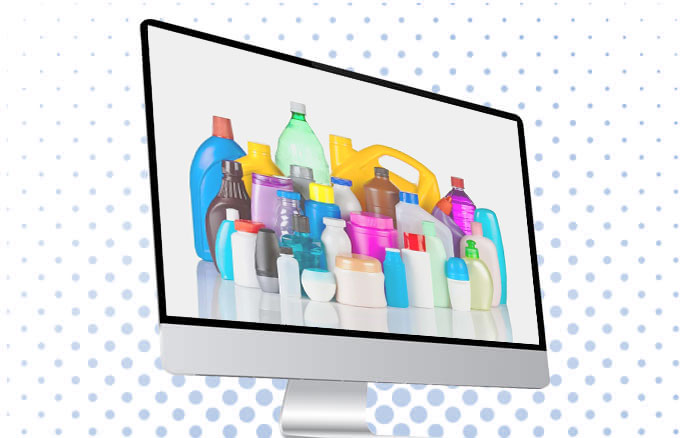
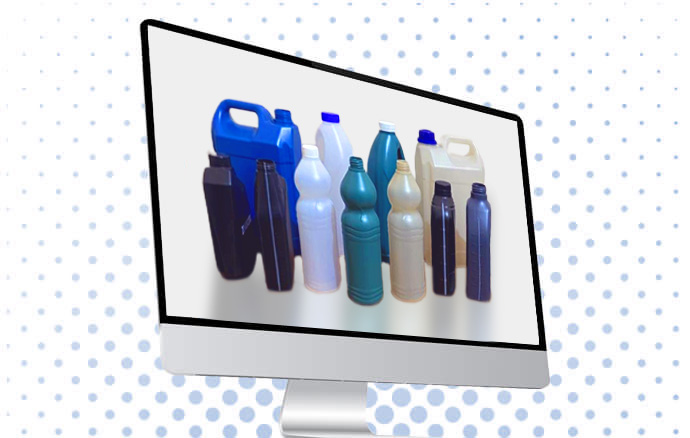
adicionando novas imagens

Changed region(s): [[0.2739, 0.2078, 0.7609, 0.8014]]

diff --git a/index.html b/index.html
@@ -14,7 +14,9 @@
   <link href="assets/img/apple-touch-icon.png" rel="apple-touch-icon">
 
   <!-- Google Fonts -->
-  <link href="https://fonts.googleapis.com/css?family=Open+Sans:300,300i,400,400i,700,700i|Raleway:300,400,500,700,800|Montserrat:300,400,700" rel="stylesheet">
+  <link
+    href="https://fonts.googleapis.com/css?family=Open+Sans:300,300i,400,400i,700,700i|Raleway:300,400,500,700,800|Montserrat:300,400,700"
+    rel="stylesheet">
 
   <!-- Vendor CSS Files -->
   <link href="assets/vendor/aos/aos.css" rel="stylesheet">
@@ -41,8 +43,9 @@
   <!-- ======= Top Bar ======= -->
   <section id="topbar" class="d-flex align-items-center">
     <div class="container d-flex justify-content-center justify-content-md-between">
-      <div class="contact-info d-flex align-items-center">
-        <i class="bi bi-envelope d-flex align-items-center"><a href="mailto:wjc_embalagensplasticas@hotmail.com">wjc_embalagensplasticas@hotmail.com</a></i>
+      <div class="contact-info d-flex align-items-center mobile-font">
+        <i class="bi bi-envelope d-flex align-items-center"><a
+            href="mailto:wjc_embalagensplasticas@hotmail.com">wjc_embalagensplasticas@hotmail.com</a></i>
         <i class="bi bi-phone d-flex align-items-center ms-4"><span>(19) 3407-7594</span></i>
       </div>
       <div class="social-links d-none d-md-flex align-items-center">
@@ -60,7 +63,7 @@
       <div id="logo">
         <!--<h1><a href="index.html">WJC</a></h1>-->
         <!-- Uncomment below if you prefer to use an image logo -->
-       <a href="index.html"><img src="assets/img/logo.png" alt=""></a>
+        <a href="index.html"><img src="assets/img/logo.png" alt=""></a>
       </div>
 
       <nav id="navbar" class="navbar">
@@ -102,20 +105,21 @@
 
   <main id="main">
 
-        <!-- ======= Call To Action Section ======= -->
-        <section id="call-to-action">
-          <div class="container" data-aos="zoom-out">
-            <div class="row">
-              <div class="col-lg-9 text-center text-lg-start">
-                <h3 class="cta-title">Seu produto merece mais!</h3>
-                <p class="cta-text"> Uma boa embalagem é determinante para o sucesso do seu produto, pensando nisso, desenvolvemos embalagens plásticas com várias opções de cores, tamanhos e formatos. Confira já!</p>
-              </div>
-              <div class="col-lg-3 cta-btn-container text-center">
-                <a class="cta-btn align-middle" href="#">Produtos</a>
-              </div>
-            </div>
+    <!-- ======= Call To Action Section ======= -->
+    <section id="call-to-action">
+      <div class="container" data-aos="zoom-out">
+        <div class="row">
+          <div class="col-lg-9 text-center text-lg-start">
+            <h3 class="cta-title">Seu produto merece mais!</h3>
+            <p class="cta-text"> Uma boa embalagem é determinante para o sucesso do seu produto, pensando nisso,
+              desenvolvemos embalagens plásticas com várias opções de cores, tamanhos e formatos. Confira já!</p>
           </div>
-        </section><!-- End Call To Action Section -->
+          <div class="col-lg-3 cta-btn-container text-center">
+            <a class="cta-btn align-middle" href="#">Produtos</a>
+          </div>
+        </div>
+      </div>
+    </section><!-- End Call To Action Section -->
     <!-- ======= About Section ======= -->
     <section id="about">
       <div class="container" data-aos="fade-up">
@@ -126,7 +130,9 @@
 
           <div class="col-lg-6 content">
             <h2>Empresa</h2>
-            <h3>A WJC  é uma empresa que está a mais de 15 anos atuando no ramo de Embalagens Plásticas, localizada na cidade de Americana, interior de Sáo Paulo, buscando atender todos os clientes com excelência e produtividade, oferecemos os mais diversos tipos de embalagens.</h3>
+            <h3>A WJC é uma empresa que está a mais de 15 anos atuando no ramo de Embalagens Plásticas, localizada na
+              cidade de Americana, interior de Sáo Paulo, buscando atender todos os clientes com excelência e
+              produtividade, oferecemos os mais diversos tipos de embalagens.</h3>
 
             <ul>
               <li><i class="bi bi-check-circle"></i> Oferecemos embalagens plásticas da mais alta qualidade.</li>
@@ -154,7 +160,8 @@
             <div class="box">
               <div class="icon"><img src="assets/img/fabricacao.png" class="img-icons" alt=""></div>
               <h4 class="title"><a href="">Fabricação própria</a></h4>
-              <p class="description">Garantindo produtividade e o mais alto controle de qualidade na fabricação de frascos. Confira todos os modelos e cores na sessão de Produtos.</p>
+              <p class="description">Garantindo produtividade e o mais alto controle de qualidade na fabricação de
+                frascos. Confira todos os modelos e cores na sessão de Produtos.</p>
             </div>
           </div>
 
@@ -162,7 +169,8 @@
             <div class="box">
               <div class="icon"><img src="assets/img/limpeza.png" class="img-icons" alt=""></div>
               <h4 class="title"><a href="">Linha de limpeza</a></h4>
-              <p class="description">Frascos de 1 a 5 litros sem e com alça. Atendendo todo o mercado nacional na modalidade de Limpeza.</p>
+              <p class="description">Frascos de 1 a 5 litros sem e com alça. Atendendo todo o mercado nacional na
+                modalidade de Limpeza.</p>
             </div>
           </div>
 
@@ -170,7 +178,8 @@
             <div class="box">
               <div class="icon"><img src="assets/img/automotivo.png" class="img-icons" alt=""></div>
               <h4 class="title"><a href="">Linha automotiva</a></h4>
-              <p class="description">Frascos técnicos com visor de nível - litragem de 0,5 a 1 litro para fluídos automotivos e afins.</p>
+              <p class="description">Frascos técnicos com visor de nível - litragem de 0,5 a 1 litro para fluídos
+                automotivos e afins.</p>
             </div>
           </div>
 
@@ -178,7 +187,8 @@
             <div class="box">
               <div class="icon"><i class="bi bi-gear"></i></div>
               <h4 class="title"><a href="">Serviço terceirizado</a></h4>
-              <p class="description">Prestamos serviço de mão de obra, executamos todo o processo de sopro, a partir de moldes encaminhados pelo cliente.</p>
+              <p class="description">Prestamos serviço de mão de obra, executamos todo o processo de sopro, a partir de
+                moldes encaminhados pelo cliente.</p>
             </div>
           </div>
 
@@ -199,94 +209,147 @@
           <div class="col-lg-12 d-flex justify-content-center">
             <ul id="portfolio-flters">
               <li data-filter="*" class="filter-active">Todos</li>
-              <li data-filter=".filter-app">1 Litro</li>
-              <li data-filter=".filter-card">2 Litros</li>
-              <li data-filter=".filter-web">5 Litros</li>
-              <li data-filter=".filter-teste">Linha Automotiva</li>
+              <li data-filter=".filter-1litro">1 Litro</li>
+              <li data-filter=".filter-2litros">2 Litros</li>
+              <li data-filter=".filter-5litros">5 Litros</li>
+              <li data-filter=".filter-automotiva">Linha Automotiva</li>
             </ul>
           </div>
         </div>
 
         <div class="row portfolio-container" data-aos="fade-up" data-aos-delay="200">
 
-          <div class="col-lg-4 col-md-6 portfolio-item filter-app">
-            <img src="assets/img/portfolio/portfolio-1.jpg" class="img-fluid" alt="">
+          <!-- ======= 1 LITRO ======= -->
+          <div class="col-lg-4 col-md-6 portfolio-item filter-1litro">
+            <img src="assets/img/galeria/1l-frasco-cristal.jpg" class="img-fluid" alt="">
             <div class="portfolio-info">
               <h4>App 1</h4>
               <p>App</p>
-              <a href="assets/img/portfolio/portfolio-1.jpg" data-gallery="portfolioGallery" class="portfolio-lightbox preview-link" title="App 1"><i class="bi-arrows-fullscreen"></i></a>
+              <a href="assets/img/galeria/1l-frasco-cristal.jpg" data-gallery="portfolioGallery"
+                class="portfolio-lightbox preview-link" title="App 1"><i class="bi-arrows-fullscreen"></i></a>
             </div>
           </div>
 
-          <div class="col-lg-4 col-md-6 portfolio-item filter-web">
-            <img src="assets/img/portfolio/portfolio-2.jpg" class="img-fluid" alt="">
+          <div class="col-lg-4 col-md-6 portfolio-item filter-1litro">
+            <img src="assets/img/galeria/1l-frasco-leitoso.jpg" class="img-fluid" alt="">
             <div class="portfolio-info">
               <h4>Web 3</h4>
               <p>Web</p>
-              <a href="assets/img/portfolio/portfolio-2.jpg" data-gallery="portfolioGallery" class="portfolio-lightbox preview-link" title="Web 3"><i class="bi-arrows-fullscreen"></i></a>
+              <a href="assets/img/galeria/1l-frasco-leitoso.jpg" data-gallery="portfolioGallery"
+                class="portfolio-lightbox preview-link" title="Web 3"><i class="bi-arrows-fullscreen"></i></a>
             </div>
           </div>
 
-          <div class="col-lg-4 col-md-6 portfolio-item filter-app">
-            <img src="assets/img/portfolio/portfolio-3.jpg" class="img-fluid" alt="">
+          <div class="col-lg-4 col-md-6 portfolio-item filter-1litro">
+            <img src="assets/img/galeria/1l-frasco-verde.jpg" class="img-fluid" alt="">
             <div class="portfolio-info">
               <h4>App 2</h4>
               <p>App</p>
-              <a href="assets/img/portfolio/portfolio-3.jpg" data-gallery="portfolioGallery" class="portfolio-lightbox preview-link" title="App 2"><i class="bi-arrows-fullscreen"></i></a>
+              <a href="assets/img/galeria/1l-frasco-verde.jpg" data-gallery="portfolioGallery"
+                class="portfolio-lightbox preview-link" title="App 2"><i class="bi-arrows-fullscreen"></i></a>
             </div>
           </div>
 
-          <div class="col-lg-4 col-md-6 portfolio-item filter-card">
-            <img src="assets/img/portfolio/portfolio-4.jpg" class="img-fluid" alt="">
+          <!-- ======= 2 LITROS ======= -->
+          <div class="col-lg-4 col-md-6 portfolio-item filter-2litros">
+            <img src="assets/img/galeria/2l-frasco-cristal.jpg" class="img-fluid" alt="">
             <div class="portfolio-info">
               <h4>Card 2</h4>
               <p>Card</p>
-              <a href="assets/img/portfolio/portfolio-4.jpg" data-gallery="portfolioGallery" class="portfolio-lightbox preview-link" title="Card 2"><i class="bi-arrows-fullscreen"></i></a>
+              <a href="assets/img/galeria/2l-frasco-cristal.jpg" data-gallery="portfolioGallery"
+                class="portfolio-lightbox preview-link" title="Card 2"><i class="bi-arrows-fullscreen"></i></a>
             </div>
           </div>
 
-          <div class="col-lg-4 col-md-6 portfolio-item filter-web">
-            <img src="assets/img/portfolio/portfolio-5.jpg" class="img-fluid" alt="">
+          <div class="col-lg-4 col-md-6 portfolio-item filter-2litros">
+            <img src="assets/img/galeria/2l-frasco-verde.jpg" class="img-fluid" alt="">
             <div class="portfolio-info">
               <h4>Web 2</h4>
               <p>Web</p>
-              <a href="assets/img/portfolio/portfolio-5.jpg" data-gallery="portfolioGallery" class="portfolio-lightbox preview-link" title="Web 2"><i class="bi-arrows-fullscreen"></i></a>
+              <a href="assets/img/galeria/2l-frasco-verde.jpg" data-gallery="portfolioGallery"
+                class="portfolio-lightbox preview-link" title="Web 2"><i class="bi-arrows-fullscreen"></i></a>
             </div>
           </div>
 
-          <div class="col-lg-4 col-md-6 portfolio-item filter-app">
-            <img src="assets/img/portfolio/portfolio-6.jpg" class="img-fluid" alt="">
+          <!-- ======= 5 LITROS ======= -->
+          <div class="col-lg-4 col-md-6 portfolio-item filter-5litros">
+            <img src="assets/img/galeria/5l-frasco-azul.jpg" class="img-fluid" alt="">
             <div class="portfolio-info">
               <h4>App 3</h4>
               <p>App</p>
-              <a href="assets/img/portfolio/portfolio-6.jpg" data-gallery="portfolioGallery" class="portfolio-lightbox preview-link" title="App 3"><i class="bi-arrows-fullscreen"></i></a>
+              <a href="assets/img/galeria/5l-frasco-azul.jpg" data-gallery="portfolioGallery"
+                class="portfolio-lightbox preview-link" title="App 3"><i class="bi-arrows-fullscreen"></i></a>
             </div>
           </div>
 
-          <div class="col-lg-4 col-md-6 portfolio-item filter-card">
-            <img src="assets/img/portfolio/portfolio-7.jpg" class="img-fluid" alt="">
+          <div class="col-lg-4 col-md-6 portfolio-item filter-5litros">
+            <img src="assets/img/galeria/5l-frasco-leitoso.jpg" class="img-fluid" alt="">
             <div class="portfolio-info">
               <h4>Card 1</h4>
               <p>Card</p>
-              <a href="assets/img/portfolio/portfolio-7.jpg" data-gallery="portfolioGallery" class="portfolio-lightbox preview-link" title="Card 1"><i class="bi-arrows-fullscreen"></i></a>
+              <a href="assets/img/galeria/5l-frasco-leitoso.jpg" data-gallery="portfolioGallery"
+                class="portfolio-lightbox preview-link" title="Card 1"><i class="bi-arrows-fullscreen"></i></a>
             </div>
           </div>
 
-          <div class="col-lg-4 col-md-6 portfolio-item filter-card">
-            <img src="assets/img/portfolio/portfolio-8.jpg" class="img-fluid" alt="">
+          <!-- ======= LINHA AUTOMOTIVA ======= -->
+          <div class="col-lg-4 col-md-6 portfolio-item filter-automotiva">
+            <img src="assets/img/galeria/linha-automotiva-1.jpg" class="img-fluid" alt="">
             <div class="portfolio-info">
               <h4>Card 3</h4>
               <p>Card</p>
-              <a href="assets/img/portfolio/portfolio-8.jpg" data-gallery="portfolioGallery" class="portfolio-lightbox preview-link" title="Card 3"><i class="bi-arrows-fullscreen"></i></a>
+              <a href="assets/img/galeria/linha-automotiva-1.jpg" data-gallery="portfolioGallery"
+                class="portfolio-lightbox preview-link" title="Card 3"><i class="bi-arrows-fullscreen"></i></a>
             </div>
           </div>
 
-          <div class="col-lg-4 col-md-6 portfolio-item filter-web">
-            <img src="assets/img/portfolio/portfolio-9.jpg" class="img-fluid" alt="">
+          <div class="col-lg-4 col-md-6 portfolio-item filter-automotiva">
+            <img src="assets/img/galeria/linha-automotiva-2.jpg" class="img-fluid" alt="">
             <div class="portfolio-info">
               <h4>Web 3</h4>
               <p>Web</p>
-              <a href="assets/img/portfolio/portfolio-9.jpg" data-gallery="portfolioGallery" class="portfolio-lightbox preview-link" title="Web 3"><i class="bi-arrows-fullscreen"></i></a>
+              <a href="assets/img/galeria/linha-automotiva-2.jpg" data-gallery="portfolioGallery"
+                class="portfolio-lightbox preview-link" title="Web 3"><i class="bi-arrows-fullscreen"></i></a>
+            </div>
+          </div>
+
+          <div class="col-lg-4 col-md-6 portfolio-item filter-automotiva">
+            <img src="assets/img/galeria/linha-automotiva-3.jpg" class="img-fluid" alt="">
+            <div class="portfolio-info">
+              <h4>Web 3</h4>
+              <p>Web</p>
+              <a href="assets/img/galeria/linha-automotiva-3.jpg" data-gallery="portfolioGallery"
+                class="portfolio-lightbox preview-link" title="Web 3"><i class="bi-arrows-fullscreen"></i></a>
+            </div>
+          </div>
+
+          <div class="col-lg-4 col-md-6 portfolio-item filter-automotiva">
+            <img src="assets/img/galeria/linha-automotiva-4.jpg" class="img-fluid" alt="">
+            <div class="portfolio-info">
+              <h4>Web 3</h4>
+              <p>Web</p>
+              <a href="assets/img/galeria/linha-automotiva-4.jpg" data-gallery="portfolioGallery"
+                class="portfolio-lightbox preview-link" title="Web 3"><i class="bi-arrows-fullscreen"></i></a>
+            </div>
+          </div>
+
+          <div class="col-lg-4 col-md-6 portfolio-item filter-automotiva">
+            <img src="assets/img/galeria/linha-automotiva-5.jpg" class="img-fluid" alt="">
+            <div class="portfolio-info">
+              <h4>Web 3</h4>
+              <p>Web</p>
+              <a href="assets/img/galeria/linha-automotiva-5.jpg" data-gallery="portfolioGallery"
+                class="portfolio-lightbox preview-link" title="Web 3"><i class="bi-arrows-fullscreen"></i></a>
+            </div>
+          </div>
+
+          <div class="col-lg-4 col-md-6 portfolio-item filter-automotiva">
+            <img src="assets/img/galeria/linha-automotiva-6.jpg" class="img-fluid" alt="">
+            <div class="portfolio-info">
+              <h4>Web 3</h4>
+              <p>Web</p>
+              <a href="assets/img/galeria/linha-automotiva-6.jpg" data-gallery="portfolioGallery"
+                class="portfolio-lightbox preview-link" title="Web 3"><i class="bi-arrows-fullscreen"></i></a>
             </div>
           </div>
 
@@ -300,7 +363,8 @@
       <div class="container" data-aos="fade-up">
         <div class="section-header">
           <h2>Contato</h2>
-          <p>Entre em contato conosco através do nosso telefone, ou venha nos visitar. Se preferir, nos mande uma mensagem no email pelo formulário abaixo.</p>
+          <p>Entre em contato conosco através do nosso telefone, ou venha nos visitar. Se preferir, nos mande uma
+            mensagem no email pelo formulário abaixo.</p>
         </div>
 
         <div class="row contact-info">
@@ -333,7 +397,9 @@
       </div>
 
       <div class="container mb-4">
-        <iframe src="https://www.google.com/maps/embed?pb=!1m18!1m12!1m3!1d3679.2699158026335!2d-47.32714268503708!3d-22.75536228508904!2m3!1f0!2f0!3f0!3m2!1i1024!2i768!4f13.1!3m3!1m2!1s0x94c89984f6e38a55%3A0x32cb598d3e13648a!2sR.%20Timbiras%2C%20164%20-%20Brieds%2C%20Americana%20-%20SP%2C%2013466-210!5e0!3m2!1spt-BR!2sbr!4v1679323498041" width="100%" height="380" frameborder="0" style="border:0" allowfullscreen></iframe>
+        <iframe
+          src="https://www.google.com/maps/embed?pb=!1m18!1m12!1m3!1d3679.2699158026335!2d-47.32714268503708!3d-22.75536228508904!2m3!1f0!2f0!3f0!3m2!1i1024!2i768!4f13.1!3m3!1m2!1s0x94c89984f6e38a55%3A0x32cb598d3e13648a!2sR.%20Timbiras%2C%20164%20-%20Brieds%2C%20Americana%20-%20SP%2C%2013466-210!5e0!3m2!1spt-BR!2sbr!4v1679323498041"
+          width="100%" height="380" frameborder="0" style="border:0" allowfullscreen></iframe>
       </div>
 
       <div class="container">
@@ -387,7 +453,8 @@
     </div>
   </footer><!-- End Footer -->
 
-  <a href="#" class="back-to-top d-flex align-items-center justify-content-center"><i class="bi bi-arrow-up-short"></i></a>
+  <a href="#" class="back-to-top d-flex align-items-center justify-content-center"><i
+      class="bi bi-arrow-up-short"></i></a>
 
   <!-- Vendor JS Files -->
   <script src="assets/vendor/aos/aos.js"></script>

diff --git a/assets/css/style.css b/assets/css/style.css
@@ -1306,3 +1306,9 @@ section {
   max-height: 64px;
   width: 100%;
 }
+
+@media (max-width: 470px) {
+  .mobile-font {
+    font-size: 9px;
+  }
+}
